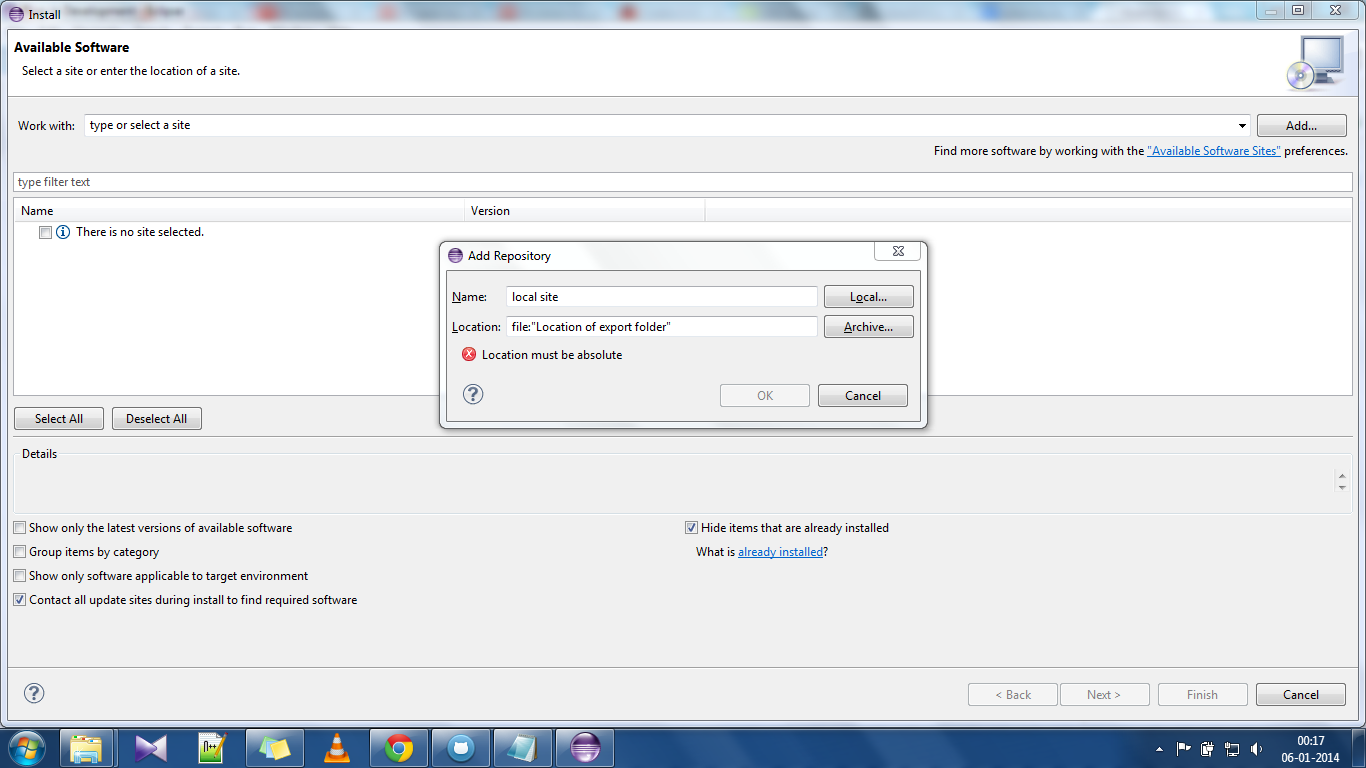
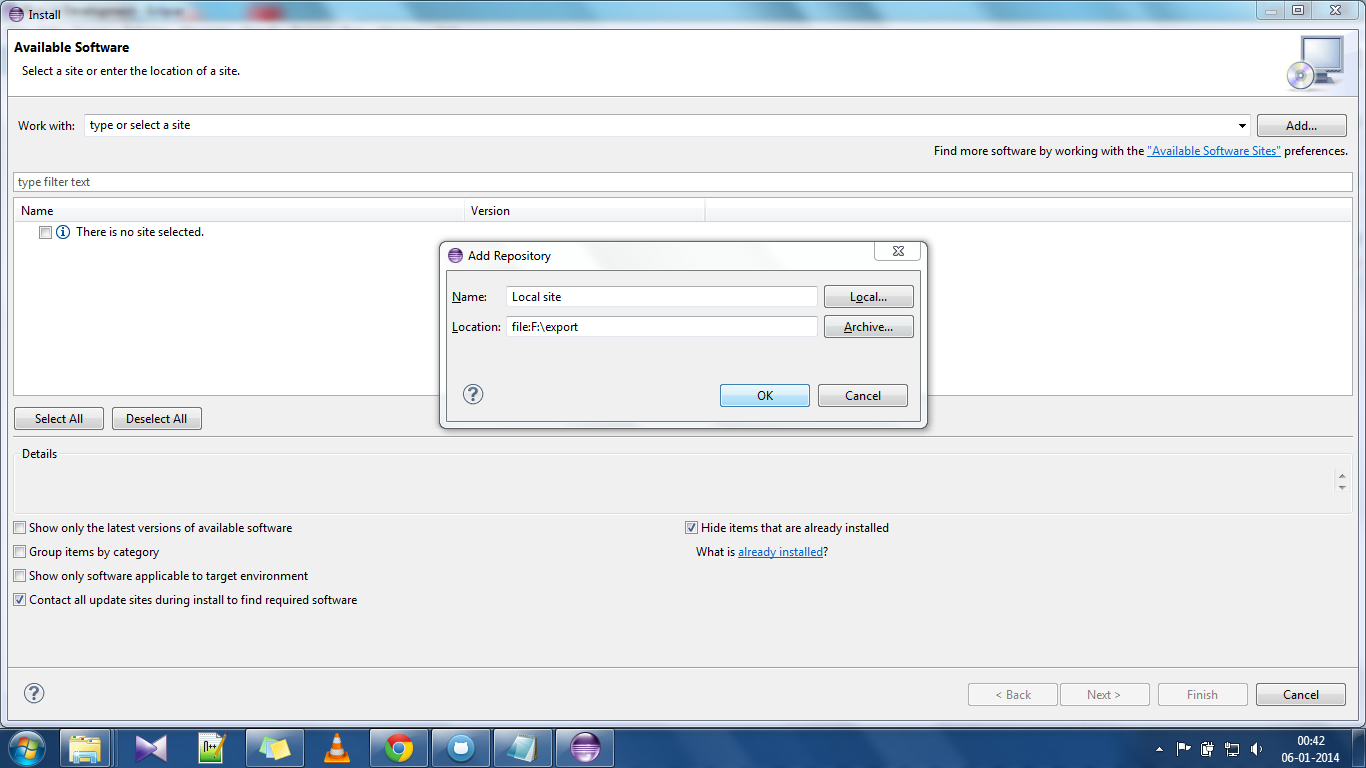
Plugin _ Complete

diff --git a/README.md b/README.md
@@ -5,8 +5,8 @@ Software Used : Eclipse.
 About plugin:
 
 Plugin which helps to display the information about flights and its timings of source and destination.
-For time being, i am fetching the data of only some places.
-places are :
+For time being, plugin fetches the data of only some places 
+places are (both from and to between these places only ).:
 Bangalore,Chennai,Delhi,Mumbai,Goa,cochin,hyderabad,ahmedabad.
 
 I have used makemytrip website to fetch the details.
@@ -30,10 +30,10 @@ Installation Procedure :
 2.After extracting you find a folder named export.
 3.Now, open Eclipse Ide.
 4.goto Help->Install New Software
-5.now in workwith row click Add button
-6.on the popup window in Name type "Local site" and in location type "file:Location of export folder" press ok (ref:add.png) .
+5.now in "work with" row click Add button
+6.on the popup window in Name type "Local site" and in location type "file:'Location of export folder'"(ref:add.png -> in this image i have used a sample drive location replace it with your export flder location)  press ok .
 7.uncheck group items by category.
-8.now you will find Codelearn in the above table check that and click next ->next -> accept the terms click finish ->ok.
+8.now you will find Codelearn in the above table of the window check it and click next ->next -> accept the terms click finish ->ok.
 9.now eclipse will restart.
 
 TO Check the Plugin.
